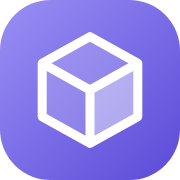
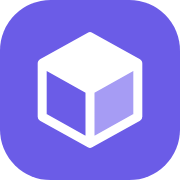
Flat 2D pass: no shadows, gradients, glows or floating blobs
Solid lavender with a dot grid, solid fills and hairline edges, flat logo,
progress bar turns green when done, no hover lift, no exclamation in titles.

Claude-Session: https://claude.ai/code/session_01JauEVLBHdVRbrzYW8a6Myq

diff --git a/docs/style.css b/docs/style.css
@@ -19,14 +19,14 @@
   --line:#e7e4f5; --dash:#d6d1f2;
   --ok:#1f9d63; --ok-bg:#e6f6ee; --bad:#cf3f3f; --bad-bg:#fdecec; --flag:#fff5d9;
   --r-lg:28px; --r-md:16px; --r-sm:10px;
-  --shadow:0 30px 80px -30px rgba(52,38,140,.45),0 2px 6px rgba(52,38,140,.08);
+  --shadow:none; --edge:#dcd7f6;
   --ease:cubic-bezier(.22,1,.36,1);
 }
 *,*::before,*::after{box-sizing:border-box}
 [hidden]{display:none!important}
 html{font-size:15px}
 body{margin:0;min-height:100vh;font-family:"Plex Thai","Leelawadee UI",Tahoma,sans-serif;line-height:1.6;color:var(--ink);
-  background:linear-gradient(140deg,var(--bg-1),var(--bg-2));-webkit-font-smoothing:antialiased}
+  background-color:var(--bg-1);background-image:radial-gradient(rgba(255,255,255,.22) 1px,transparent 1.6px);background-size:24px 24px;-webkit-font-smoothing:antialiased}
 h1,h2,h3{margin:0;font-weight:600;line-height:1.35}
 h2{font-size:15px}
 p{margin:0}
@@ -40,24 +40,19 @@ button,input,select,textarea{font:inherit;color:inherit}
 .ic{width:18px;height:18px;fill:none;stroke:currentColor;stroke-width:1.7;stroke-linecap:round;stroke-linejoin:round;flex:none}
 
 /* backdrop: soft shapes that drift very slowly */
-.backdrop{position:fixed;inset:0;overflow:hidden;pointer-events:none;z-index:0}
-.backdrop span{position:absolute;border-radius:50%;background:rgba(255,255,255,.12)}
-.backdrop span:nth-child(1){width:52vw;height:52vw;left:-14vw;top:-18vw;animation:drift 26s ease-in-out infinite alternate}
-.backdrop span:nth-child(2){width:38vw;height:38vw;right:-10vw;bottom:-16vw;background:rgba(255,255,255,.09);animation:drift 32s ease-in-out -8s infinite alternate-reverse}
-.backdrop span:nth-child(3){width:18vw;height:18vw;right:24vw;top:-6vw;background:rgba(255,255,255,.08);animation:drift 22s ease-in-out -4s infinite alternate}
-@keyframes drift{to{transform:translate(3vw,2vw) scale(1.05)}}
+.backdrop{display:none}
 
 /* ---------- the app card ---------- */
 .app{position:relative;z-index:1;margin:24px;min-height:calc(100vh - 48px);display:grid;
   grid-template-columns:76px minmax(330px,380px) minmax(0,1fr) minmax(280px,330px);
-  background:rgba(255,255,255,.55);border:1px solid rgba(255,255,255,.7);border-radius:var(--r-lg);
-  box-shadow:var(--shadow);padding:10px;gap:10px;
+  background:#f1effd;border:2px solid #fff;border-radius:var(--r-lg);
+  padding:12px;gap:12px;
   animation:rise .7s var(--ease) both}
 @keyframes rise{from{opacity:0;transform:translateY(18px) scale(.985)}}
 .app>*{min-width:0}
 
 /* rail */
-.rail{display:flex;flex-direction:column;align-items:center;gap:6px;padding:14px 0;background:var(--card);border-radius:20px}
+.rail{display:flex;flex-direction:column;align-items:center;gap:4px;padding:16px 0;background:var(--card);border-radius:20px;border:1.5px solid var(--edge)}
 .rail-logo{display:grid;place-items:center;width:46px;height:46px;margin-bottom:14px}
 .rail-logo img{display:block}
 .rail-btn{display:flex;flex-direction:column;align-items:center;gap:2px;width:60px;padding:9px 0 7px;border:0;border-radius:14px;
@@ -70,6 +65,7 @@ button,input,select,textarea{font:inherit;color:inherit}
 /* columns */
 .tasks,.stage,.inspector{background:var(--card);border-radius:20px;padding:22px;position:relative}
 .tasks,.inspector{border:1.5px dashed var(--dash);background:var(--card)}
+.stage{border:1.5px solid var(--edge)}
 .tasks{display:flex;flex-direction:column;gap:18px;animation:slidein .6s .08s var(--ease) both}
 .stage{display:flex;flex-direction:column;gap:18px;animation:slidein .6s .16s var(--ease) both}
 .inspector{animation:slidein .6s .24s var(--ease) both;overflow:auto}
@@ -102,9 +98,9 @@ textarea:focus,input:focus,select:focus{outline:none;border-color:var(--violet-s
   border-radius:12px;background:#fff;color:var(--ink);font-weight:500;text-decoration:none;cursor:pointer;white-space:nowrap;
   transition:transform .15s var(--ease),background .2s,border-color .2s,box-shadow .2s}
 .btn:hover{border-color:var(--violet-soft);background:var(--panel)}
-.btn:active:not(:disabled){transform:scale(.97)}
+.btn:active:not(:disabled){transform:translateY(1px)}
 .btn:disabled{opacity:.55;cursor:not-allowed}
-.btn.primary{background:var(--violet);border-color:var(--violet);color:#fff;box-shadow:0 8px 20px -8px rgba(116,100,239,.8)}
+.btn.primary{background:var(--violet);border-color:var(--violet);color:#fff}
 .btn.primary:hover{background:var(--violet-strong);border-color:var(--violet-strong)}
 .btn.primary .ic{transition:transform .25s var(--ease)}
 .btn.primary:hover .ic{transform:translateX(3px)}
@@ -121,7 +117,7 @@ textarea:focus,input:focus,select:focus{outline:none;border-color:var(--violet-s
 .error{color:var(--bad);background:var(--bad-bg);border-radius:var(--r-sm);padding:10px 12px;font-size:14px;animation:pop .3s var(--ease)}
 
 /* ---------- task card with live checklist ---------- */
-.task{border:1.5px solid var(--line);border-radius:var(--r-md);padding:16px;background:#fff;box-shadow:0 18px 40px -26px rgba(52,38,140,.5);animation:taskin .55s var(--ease)}
+.task{border:1.5px solid var(--edge);border-radius:var(--r-md);padding:16px;background:#fff;animation:taskin .55s var(--ease)}
 @keyframes taskin{from{opacity:0;transform:translateY(14px) scale(.96)}}
 .task-head{display:flex;justify-content:space-between;align-items:flex-start;gap:12px;margin-bottom:10px}
 .task-head h2{font-size:15px;line-height:1.45;overflow-wrap:anywhere}
@@ -147,7 +143,7 @@ textarea:focus,input:focus,select:focus{outline:none;border-color:var(--violet-s
 @keyframes tick{from{transform:rotate(-45deg) scale(.2);opacity:0}}
 
 /* Claude Pro panel */
-.pro{border:1.5px solid var(--violet-soft);border-radius:var(--r-md);padding:16px;background:linear-gradient(180deg,var(--tint),#fff 60%);display:flex;flex-direction:column;gap:10px;animation:taskin .5s var(--ease)}
+.pro{border:1.5px solid var(--violet-soft);border-radius:var(--r-md);padding:16px;background:var(--tint);display:flex;flex-direction:column;gap:10px;animation:taskin .5s var(--ease)}
 .pro h2{font-size:15px}
 .pro>label{font-weight:500;font-size:14px}
 .steps{margin:0;padding-left:20px;font-size:13.5px;color:var(--text-2);display:flex;flex-direction:column;gap:6px}
@@ -190,7 +186,7 @@ textarea:focus,input:focus,select:focus{outline:none;border-color:var(--violet-s
 @keyframes titleswap{from{opacity:0;transform:translateY(8px)}}
 .stage-sub{color:var(--muted);font-size:14px;margin-top:4px}
 
-.frame{flex:none;height:clamp(420px,62vh,680px);display:flex;flex-direction:column;border:1.5px solid var(--line);border-radius:18px;overflow:hidden;background:#fff;box-shadow:0 20px 50px -34px rgba(52,38,140,.55)}
+.frame{flex:none;height:clamp(420px,62vh,680px);display:flex;flex-direction:column;border:1.5px solid var(--line);border-radius:18px;overflow:hidden;background:#fff}
 .frame-bar{display:flex;align-items:center;gap:10px;flex-wrap:wrap;padding:8px 12px;background:var(--panel);border-bottom:1px solid var(--line)}
 .dots{display:flex;gap:6px;margin-right:auto}
 .dots i{width:10px;height:10px;border-radius:50%;background:#ff6058}.dots i:nth-child(2){background:#ffc130}.dots i:nth-child(3){background:#27ca40}
@@ -226,9 +222,8 @@ body.has-model .viewport{animation:fadein .6s var(--ease)}
 .progress-label{display:flex;justify-content:center;gap:6px;align-items:baseline;font-size:13.5px;color:var(--violet-strong);margin-bottom:8px}
 .progress-label b{font-family:"Plex Num",monospace;font-weight:500;margin-left:8px;min-width:2.2ch;text-align:right}
 .bar{height:12px;border-radius:999px;background:var(--panel);border:1px solid var(--line);overflow:hidden}
-.bar i{display:block;height:100%;width:0;border-radius:inherit;background:linear-gradient(90deg,var(--violet-soft),var(--violet));transition:width .45s var(--ease)}
-.progress.done .bar i{background:linear-gradient(90deg,#9f95f5,var(--violet));animation:glow 1s var(--ease)}
-@keyframes glow{50%{box-shadow:0 0 18px 2px rgba(116,100,239,.6)}}
+.bar i{display:block;height:100%;width:0;border-radius:inherit;background:var(--violet);transition:width .45s var(--ease)}
+.progress.done .bar i{background:var(--ok)}
 .progress.fail .bar i{background:var(--bad)}
 
 /* result: numbers and file cards */
@@ -245,10 +240,10 @@ body.has-model .viewport{animation:fadein .6s var(--ease)}
 #tb-verify.bad{background:var(--bad-bg);color:var(--bad)}
 #tb-verify.bad::after{display:none}
 .files-grid{display:grid;grid-template-columns:repeat(3,minmax(0,1fr));gap:10px}
-.file-card{display:grid;grid-template-columns:auto 1fr;grid-template-rows:1fr auto;gap:10px 12px;padding:14px;border:1.5px solid var(--line);border-radius:var(--r-md);background:#fff;animation:cardin .55s var(--ease) both;transition:border-color .2s,transform .25s var(--ease),box-shadow .25s}
+.file-card{display:grid;grid-template-columns:auto 1fr;grid-template-rows:1fr auto;gap:10px 12px;padding:14px;border:1.5px solid var(--line);border-radius:var(--r-md);background:#fff;animation:cardin .55s var(--ease) both;transition:border-color .2s,background-color .2s}
 .file-card:nth-child(2){animation-delay:.08s}.file-card:nth-child(3){animation-delay:.16s}
-.file-card:hover{border-color:var(--violet-soft);transform:translateY(-2px);box-shadow:0 14px 30px -22px rgba(52,38,140,.6)}
-.file-card.main{border-color:var(--violet-soft);background:linear-gradient(180deg,var(--tint),#fff 70%)}
+.file-card:hover{border-color:var(--violet-soft)}
+.file-card.main{border-color:var(--violet-soft);background:var(--tint)}
 .file-ic{width:36px;height:36px;border-radius:11px;background:var(--tint);color:var(--violet-strong);display:grid;place-items:center}
 .file-card.main .file-ic{background:var(--violet);color:#fff}
 .file-card h3{font-size:14px}
@@ -284,7 +279,7 @@ body.has-model .viewport{animation:fadein .6s var(--ease)}
 .sw-setup .steps{gap:8px}
 
 /* settings dialog */
-dialog{border:0;border-radius:22px;padding:0;width:min(460px,92vw);box-shadow:var(--shadow)}
+dialog{border:2px solid var(--edge);border-radius:20px;padding:0;width:min(460px,92vw)}
 dialog[open]{animation:taskin .4s var(--ease)}
 dialog::backdrop{background:rgba(30,27,51,.35)}
 dialog form{padding:24px;display:flex;flex-direction:column;gap:10px}
@@ -304,7 +299,7 @@ dialog label{font-weight:500;font-size:14px}
 }
 @media (max-width:860px){
   .app{margin:10px;padding:8px;grid-template-columns:1fr;min-height:0}
-  .rail{flex-direction:row;justify-content:space-around;padding:6px;position:sticky;top:10px;z-index:5;box-shadow:0 10px 30px -18px rgba(52,38,140,.6)}
+  .rail{flex-direction:row;justify-content:space-around;padding:6px;position:sticky;top:10px;z-index:5;border:1.5px solid var(--edge)}
   .rail-logo{margin:0;width:40px;height:40px}
   .rail-gap{display:none}
   .rail-btn{width:auto;padding:6px 10px}
@@ -334,9 +329,9 @@ dialog label{font-weight:500;font-size:14px}
 .history-page .note{margin-top:12px;padding:10px 14px;border-radius:var(--r-sm);background:var(--tint);color:var(--violet-strong);font-size:14px}
 .log-list{list-style:none;padding:0;margin:20px 0 0;display:grid;grid-template-columns:repeat(auto-fill,minmax(420px,1fr));gap:14px}
 .log-item{display:grid;grid-template-columns:110px 1fr;grid-template-rows:auto auto;gap:12px 16px;padding:16px;border:1.5px solid var(--line);border-radius:var(--r-md);background:#fff;
-  animation:cardin .5s var(--ease) both;transition:border-color .2s,transform .25s var(--ease),box-shadow .25s}
+  animation:cardin .5s var(--ease) both;transition:border-color .2s}
 .log-item:nth-child(2){animation-delay:.04s}.log-item:nth-child(3){animation-delay:.08s}.log-item:nth-child(4){animation-delay:.12s}.log-item:nth-child(n+5){animation-delay:.16s}
-.log-item:hover{border-color:var(--violet-soft);transform:translateY(-2px);box-shadow:0 16px 34px -24px rgba(52,38,140,.6)}
+.log-item:hover{border-color:var(--violet-soft)}
 .log-thumb{grid-row:1/3;width:110px;height:110px;border-radius:14px;background:var(--panel);display:grid;place-items:center;overflow:hidden}
 .log-thumb img{width:100%;height:100%;object-fit:contain;mix-blend-mode:multiply}
 .log-name{font-size:15px;font-weight:600;overflow-wrap:anywhere;display:flex;align-items:center;gap:8px;flex-wrap:wrap}
@@ -358,3 +353,4 @@ dialog label{font-weight:500;font-size:14px}
   .log-acts .btn{flex:1}
   .log-tools input[type=search]{width:100%}
 }
+#pro-reason{color:var(--text-2);background:#fff;border:1.5px solid var(--edge)}

diff --git a/docs/js/progress.js b/docs/js/progress.js
@@ -100,7 +100,7 @@ export const task = {
     setPill("ok", "เสร็จแล้ว");
     setPercent(100, `สร้าง ${name} เสร็จแล้ว`);
     document.querySelector(".progress").classList.add("done");
-    setStage("สร้างเสร็จแล้ว!", "ตรวจขนาดทางขวา แล้วดาวน์โหลดไฟล์ด้านล่าง", false);
+    setStage("สร้างเสร็จแล้ว", "ตรวจขนาดทางขวา แล้วดาวน์โหลดไฟล์ด้านล่าง", false);
   },
 
   fail(message) {
